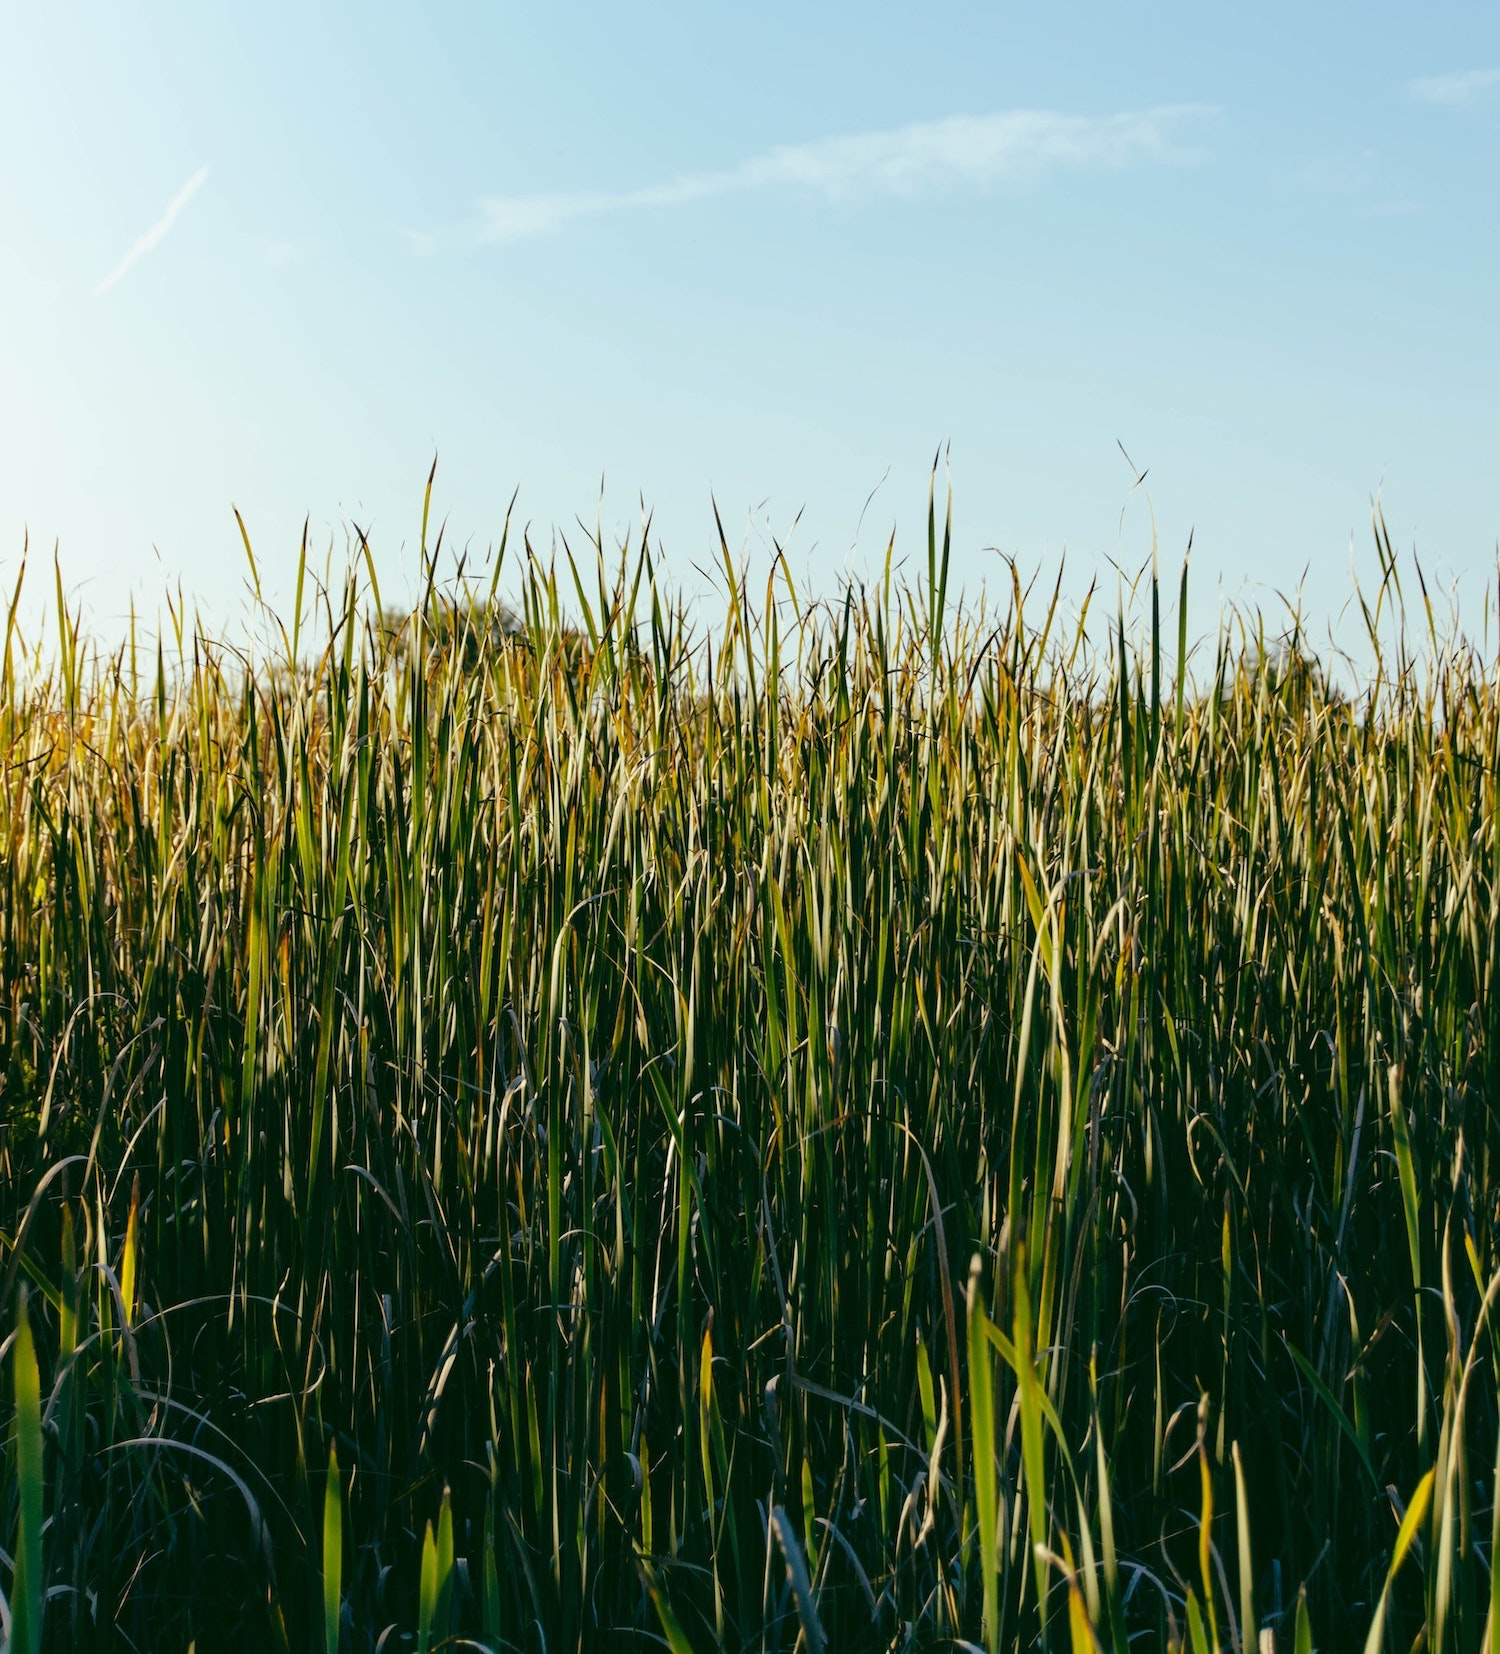
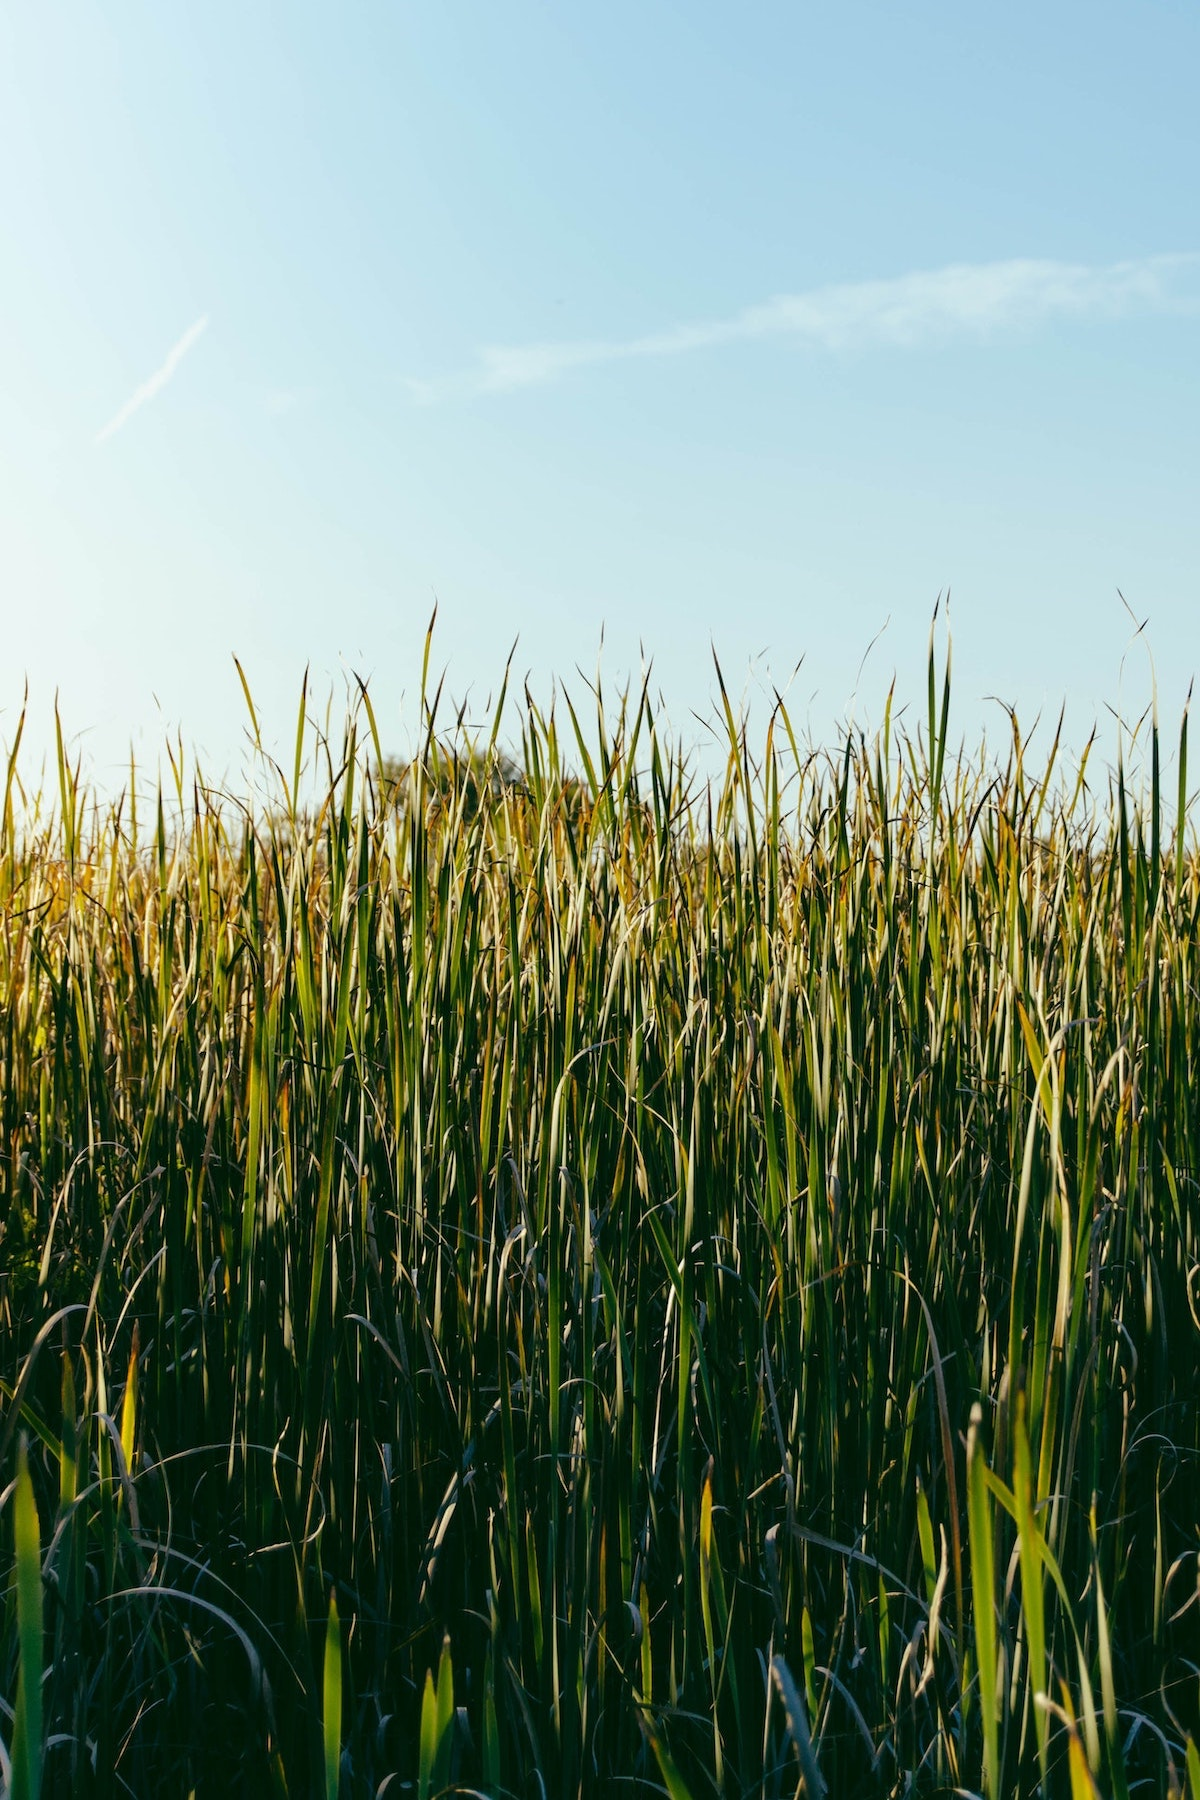
resized home photos for smaller devices

diff --git a/style.css b/style.css
@@ -312,7 +312,10 @@ div.hero-body {
 /* Max Width 768px----------------------------------------------------------------------------------- */
 @media (max-width: 768px) {
 #hero-img {
-    background: url(images/Adelaide72ppi\ -3.jpg) center / cover;
+    background: url(images/Adelaide\ Bridge-2.jpg) center / cover;
+}
+#faq-section {
+    background: url(images/faq7_small.jpg);  
 }
 .section-header {
     font-size: 35px;
@@ -456,10 +459,17 @@ p {
 }
 }
 /* Max Width 374-------------------------------------------------------------------------- */
-@media (max-width: 374px) {
+@media (max-width: 414px) {
+    #hero-img {
+        background: url(images/Adelaide\ Bridge2-1_414.jpg) center / cover;
+    }
+    #faq-section {
+        background: url(images/faq7_414.jpg);  
+    }
     #email-center {
         font-size: 15px;
     }
+
 }
 
 
